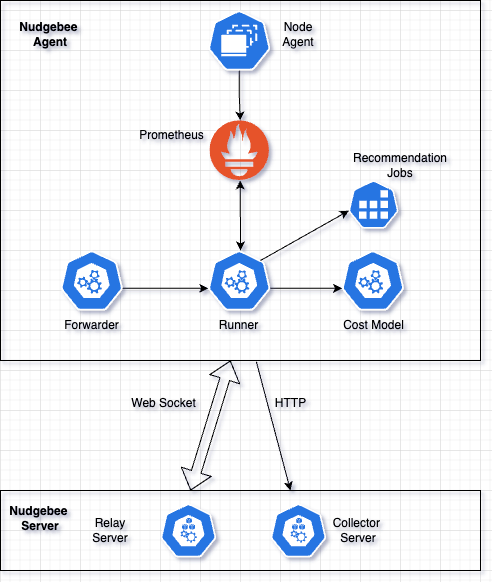
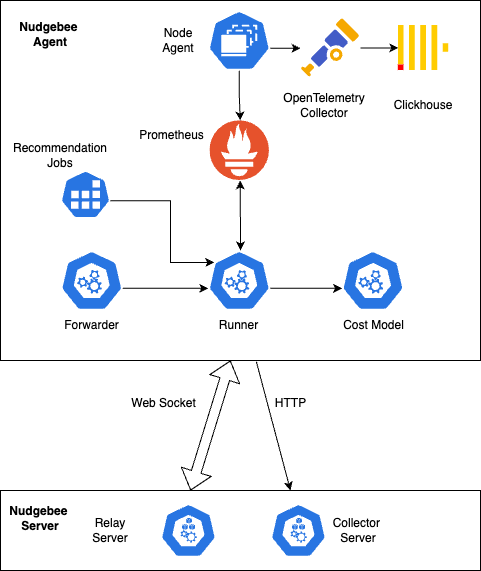
fix: added docs for tracing

diff --git a/doc-server/docs/installation/agent/installation/values.md b/doc-server/docs/installation/agent/installation/values.md
@@ -1,0 +1,146 @@
+---
+sidebar_position: 2
+---
+
+# Values
+
+![Version: 0.0.43](https://img.shields.io/badge/Version-0.0.43-informational?style=flat-square) ![Type: application](https://img.shields.io/badge/Type-application-informational?style=flat-square) ![AppVersion: 0.0.43](https://img.shields.io/badge/AppVersion-0.0.43-informational?style=flat-square)
+
+Nudgebee Helm chart for Kubernetes
+
+## Requirements
+
+| Repository | Name | Version |
+|------------|------|---------|
+| https://charts.bitnami.com/bitnami | clickhouse | 3.1.* |
+| https://open-telemetry.github.io/opentelemetry-helm-charts | opentelemetry-collector | 0.52.* |
+| https://opencost.github.io/opencost-helm-chart | opencost | 1.28.0 |
+
+## Values
+
+| Key | Type | Default | Description |
+|-----|------|---------|-------------|
+| kubewatch.additional_env_vars | list | `[]` |  |
+| kubewatch.annotations | object | `{}` |  |
+| kubewatch.config.namespace | string | `""` |  |
+| kubewatch.config.resource.clusterrole | bool | `true` |  |
+| kubewatch.config.resource.clusterrolebinding | bool | `true` |  |
+| kubewatch.config.resource.configmap | bool | `true` |  |
+| kubewatch.config.resource.coreevent | bool | `false` |  |
+| kubewatch.config.resource.daemonset | bool | `true` |  |
+| kubewatch.config.resource.deployment | bool | `true` |  |
+| kubewatch.config.resource.event | bool | `true` |  |
+| kubewatch.config.resource.hpa | bool | `true` |  |
+| kubewatch.config.resource.ingress | bool | `true` |  |
+| kubewatch.config.resource.job | bool | `true` |  |
+| kubewatch.config.resource.namespace | bool | `true` |  |
+| kubewatch.config.resource.node | bool | `true` |  |
+| kubewatch.config.resource.persistentvolume | bool | `true` |  |
+| kubewatch.config.resource.pod | bool | `true` |  |
+| kubewatch.config.resource.replicaset | bool | `true` |  |
+| kubewatch.config.resource.replicationcontroller | bool | `false` |  |
+| kubewatch.config.resource.secret | bool | `false` |  |
+| kubewatch.config.resource.serviceaccount | bool | `true` |  |
+| kubewatch.config.resource.services | bool | `true` |  |
+| kubewatch.config.resource.statefulset | bool | `true` |  |
+| kubewatch.image | string | `"us-central1-docker.pkg.dev/genuine-flight-317411/devel/kubewatch:v2.5"` |  |
+| kubewatch.imagePullPolicy | string | `"IfNotPresent"` |  |
+| kubewatch.imagePullSecrets | list | `[]` |  |
+| kubewatch.nodeSelector | string | `nil` |  |
+| kubewatch.pprof | bool | `true` |  |
+| kubewatch.resources.limits.cpu | string | `nil` |  |
+| kubewatch.resources.requests.cpu | string | `"10m"` |  |
+| kubewatch.resources.requests.memory | string | `"512Mi"` |  |
+| kubewatch.tolerations | list | `[]` |  |
+| nodeAgent.enabled | bool | `true` |  |
+| nodeAgent.fullnameOverride | string | `""` |  |
+| nodeAgent.image.pullPolicy | string | `"IfNotPresent"` |  |
+| nodeAgent.image.repository | string | `"registry.nudgebee.com/nudgebee-node-agent"` |  |
+| nodeAgent.image.tag | string | `"2024-04-11T12-14-36_d70ec9cecc6d09aee7b7ab26638765be622f16ac"` |  |
+| nodeAgent.imagePullSecrets | list | `[]` |  |
+| nodeAgent.nameOverride | string | `""` |  |
+| nodeAgent.podAnnotations | object | `{}` |  |
+| nodeAgent.priorityClassName | string | `""` |  |
+| nodeAgent.resources.limits.cpu | string | `"1"` |  |
+| nodeAgent.resources.limits.memory | string | `"1Gi"` |  |
+| nodeAgent.resources.requests.cpu | string | `"50m"` |  |
+| nodeAgent.resources.requests.memory | string | `"50Mi"` |  |
+| nodeAgent.tracesEndpoint | string | `"http://nudgebee-agent-opentelemetry-collector:4318/v1/traces"` |  |
+| opencost.enabled | bool | `false` |  |
+| opencost.opencost.prometheus.external.enabled | bool | `true` |  |
+| opencost.opencost.prometheus.external.url | string | `""` |  |
+| opencost.opencost.prometheus.internal.enabled | bool | `false` |  |
+| opencost.opencost.service.labels.app | string | `"opencost"` |  |
+| opencost.opencost.ui.enabled | bool | `false` |  |
+| openshift.createPrivilegedScc | bool | `false` |  |
+| openshift.createScc | bool | `true` |  |
+| openshift.enabled | bool | `false` |  |
+| openshift.privilegedSccName | string | `nil` |  |
+| openshift.privilegedSccPriority | string | `nil` |  |
+| openshift.sccName | string | `nil` |  |
+| openshift.sccPriority | string | `nil` |  |
+| opentelemetry-collector.config.exporters.clickhouse.database | string | `"default"` |  |
+| opentelemetry-collector.config.exporters.clickhouse.endpoint | string | `"tcp://nudgebee-agent-clickhouse:9000?dial_timeout=10s&compress=lz4"` |  |
+| opentelemetry-collector.config.exporters.clickhouse.logs_table_name | string | `"otel_logs"` |  |
+| opentelemetry-collector.config.exporters.clickhouse.metrics_table_name | string | `"otel_metrics"` |  |
+| opentelemetry-collector.config.exporters.clickhouse.password | string | `"${env:CLICKHOUSE_PASSWORD}"` |  |
+| opentelemetry-collector.config.exporters.clickhouse.retry_on_failure.enabled | bool | `true` |  |
+| opentelemetry-collector.config.exporters.clickhouse.retry_on_failure.initial_interval | string | `"5s"` |  |
+| opentelemetry-collector.config.exporters.clickhouse.retry_on_failure.max_elapsed_time | string | `"300s"` |  |
+| opentelemetry-collector.config.exporters.clickhouse.retry_on_failure.max_interval | string | `"30s"` |  |
+| opentelemetry-collector.config.exporters.clickhouse.timeout | string | `"5s"` |  |
+| opentelemetry-collector.config.exporters.clickhouse.traces_table_name | string | `"otel_traces"` |  |
+| opentelemetry-collector.config.exporters.clickhouse.ttl_days | int | `7` |  |
+| opentelemetry-collector.config.exporters.clickhouse.username | string | `"default"` |  |
+| opentelemetry-collector.config.processors.batch.send_batch_size | int | `100000` |  |
+| opentelemetry-collector.config.processors.batch.timeout | string | `"5s"` |  |
+| opentelemetry-collector.config.service.pipelines.logs.exporters[0] | string | `"clickhouse"` |  |
+| opentelemetry-collector.config.service.pipelines.logs.processors[0] | string | `"batch"` |  |
+| opentelemetry-collector.config.service.pipelines.logs.receivers[0] | string | `"otlp"` |  |
+| opentelemetry-collector.config.service.pipelines.traces.exporters[0] | string | `"clickhouse"` |  |
+| opentelemetry-collector.config.service.pipelines.traces.processors[0] | string | `"batch"` |  |
+| opentelemetry-collector.config.service.pipelines.traces.receivers[0] | string | `"otlp"` |  |
+| opentelemetry-collector.enabled | bool | `false` |  |
+| opentelemetry-collector.extraEnvs[0].name | string | `"CLICKHOUSE_PASSWORD"` |  |
+| opentelemetry-collector.extraEnvs[0].valueFrom.secretKeyRef.key | string | `"admin-password"` |  |
+| opentelemetry-collector.extraEnvs[0].valueFrom.secretKeyRef.name | string | `"nudgebee-agent-clickhouse"` |  |
+| opentelemetry-collector.mode | string | `"deployment"` |  |
+| opentelemetry-collector.ports.jaeger-compact.enabled | bool | `false` |  |
+| opentelemetry-collector.ports.jaeger-grpc.enabled | bool | `false` |  |
+| opentelemetry-collector.ports.jaeger-thrift.enabled | bool | `false` |  |
+| opentelemetry-collector.ports.zipkin.enabled | bool | `false` |  |
+| runner.additional_env_vars[0].name | string | `"POPEYE_IMAGE_OVERRIDE"` |  |
+| runner.additional_env_vars[0].value | string | `"popeye:v0.11.1"` |  |
+| runner.additional_env_vars[1].name | string | `"CLICKHOUSE_HOST"` |  |
+| runner.additional_env_vars[1].value | string | `"nudgebee-agent-clickhouse"` |  |
+| runner.additional_env_vars[2].name | string | `"CLICKHOUSE_PORT"` |  |
+| runner.additional_env_vars[2].value | string | `"8123"` |  |
+| runner.additional_env_vars[3].name | string | `"CLICKHOUSE_USER"` |  |
+| runner.additional_env_vars[3].value | string | `"default"` |  |
+| runner.additional_env_vars[4].name | string | `"CLICKHOUSE_DB"` |  |
+| runner.additional_env_vars[4].value | string | `"default"` |  |
+| runner.annotations | object | `{}` |  |
+| runner.clickhouse_enabled | bool | `false` |  |
+| runner.clickhouse_secret | string | `"nudgebee-agent-clickhouse"` |  |
+| runner.customClusterRoleRules | list | `[]` |  |
+| runner.extraVolumeMounts | list | `[]` |  |
+| runner.extraVolumes | list | `[]` |  |
+| runner.image.repository | string | `"registry.nudgebee.com/nudgebee-agent"` |  |
+| runner.image.tag | string | `"2024-04-12T19-29-20_32b7e3bd4b8e0ec4c5d1a00408945675c9e6cbd5"` |  |
+| runner.imagePullPolicy | string | `"IfNotPresent"` |  |
+| runner.imagePullSecrets | list | `[]` |  |
+| runner.image_registry | string | `"registry.nudgebee.com"` |  |
+| runner.krr_image_override | string | `"krr-public:2024-04-04T09-10-41_95900bd12662309ddeb0767d4ca4353d6d1bd3fb"` |  |
+| runner.log_level | string | `"INFO"` |  |
+| runner.nodeSelector | string | `nil` |  |
+| runner.nudgebee.auth_secret_key | string | `""` |  |
+| runner.nudgebee.endpoint | string | `"https://collector.nudgebee.com"` |  |
+| runner.nudgebee.publish_window | string | `"3600"` |  |
+| runner.profiler_image_override | string | `"2024-03-30T14-28-13_540b6ffa8b81eb5f5dfaefa731c2e9dd28ce5355"` |  |
+| runner.relay_address | string | `"wss://relay.nudgebee.com/register"` |  |
+| runner.resources.limits.cpu | string | `nil` |  |
+| runner.resources.requests.cpu | string | `"250m"` |  |
+| runner.resources.requests.memory | string | `"1500Mi"` |  |
+| runner.tolerations | list | `[]` |  |
+| runner.victoria_metrics_enabled | bool | `false` |  |
+| runnerServiceAccount.imagePullSecrets | list | `[]` |  |

diff --git a/doc-server/docs/installation/agent/installation/tracing.md b/doc-server/docs/installation/agent/installation/tracing.md
@@ -1,0 +1,54 @@
+---
+sidebar_position: 2
+---
+# Tracing
+
+## Overview
+
+The Nudgebee Node Agent is a component designed to collect tracing data from HTTP requests and PostgreSQL queries within Kubernetes clusters. It utilizes eBPF (extended Berkeley Packet Filter) probes to capture low-level data directly from the kernel, ensuring minimal overhead and high performance. The collected data, including status, duration, request, and response information, is then sent to an OpenTelemetry collector. From there, the collector writes the data to ClickHouse for storage and analysis.
+
+## Architecture Diagram
+
+![Agent Architecture](/img/nb_agent_architecture.png)
+
+## Components
+
+### Node Agent
+
+The Node Agent runs as a DaemonSet within the Kubernetes cluster, ensuring that there is one instance running on each node. It leverages eBPF technology to intercept network packets and PostgreSQL queries at the kernel level.
+
+### eBPF Probes
+
+eBPF probes are embedded directly into the Node Agent to capture tracing data. These probes are attached to specific kernel functions related to networking (for HTTP tracing) and PostgreSQL (for database query tracing). By intercepting relevant events at the kernel level, eBPF probes achieve high performance and minimal overhead.
+
+### OpenTelemetry Collector
+
+The OpenTelemetry collector acts as an intermediary for receiving tracing data from the Node Agent. It provides capabilities for processing, filtering, and exporting telemetry data to various backends. In this architecture, the OpenTelemetry collector is configured to receive data from the Node Agent and forward it to ClickHouse for storage.
+
+### ClickHouse
+
+ClickHouse serves as the storage backend for the collected tracing data. It is a columnar database optimized for analytical workloads, providing fast query execution and efficient storage for large volumes of data.
+
+## Data Flow
+
+1. **eBPF Probes**: Intercept HTTP requests and PostgreSQL queries at the kernel level.
+2. **Node Agent**: Receives tracing data from eBPF probes running on each node.
+3. **OpenTelemetry Collector**: Collects tracing data from the Node Agent.
+4. **ClickHouse**: Tracing data is forwarded to ClickHouse by the OpenTelemetry collector for storage and analysis.
+
+## Installation
+By default tracing is disabled, To enable traces collection add below config in values.yaml
+```
+runner:
+  clickhouse_enabled: true
+
+nodeAgent:
+    enabled: true
+
+opentelemetry-collector:
+  enabled: true
+```
+
+## Conclusion
+
+The Kubernetes Node Agent, in conjunction with eBPF probes and the OpenTelemetry collector, provides a robust solution for collecting and analyzing tracing data from Kubernetes clusters. By leveraging these components, organizations can gain valuable insights into application performance and behavior, facilitating efficient troubleshooting and optimization efforts.